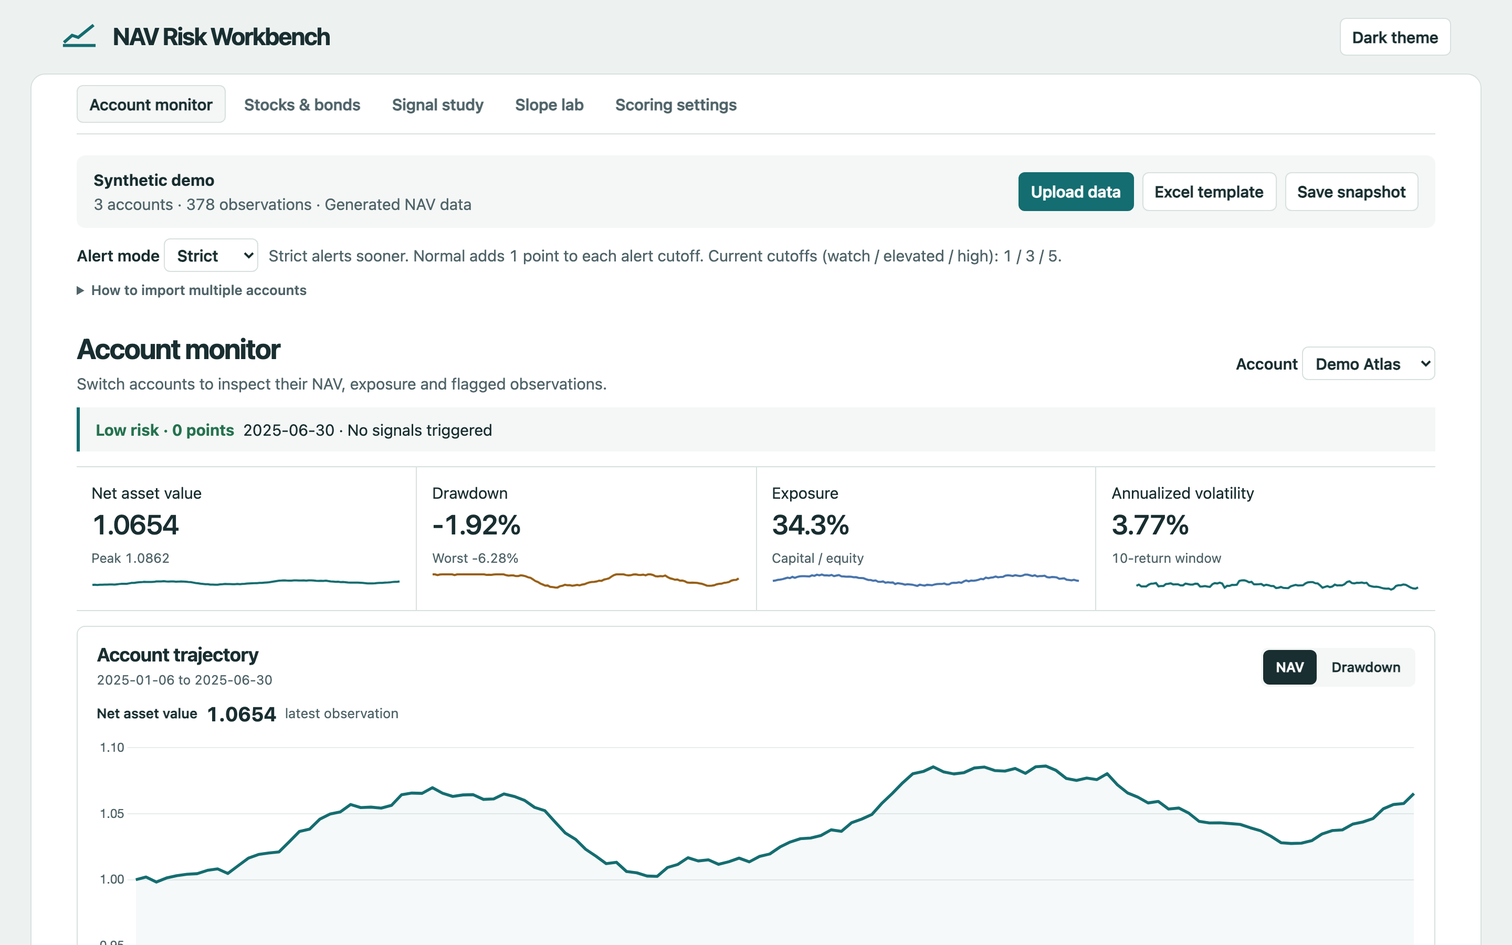
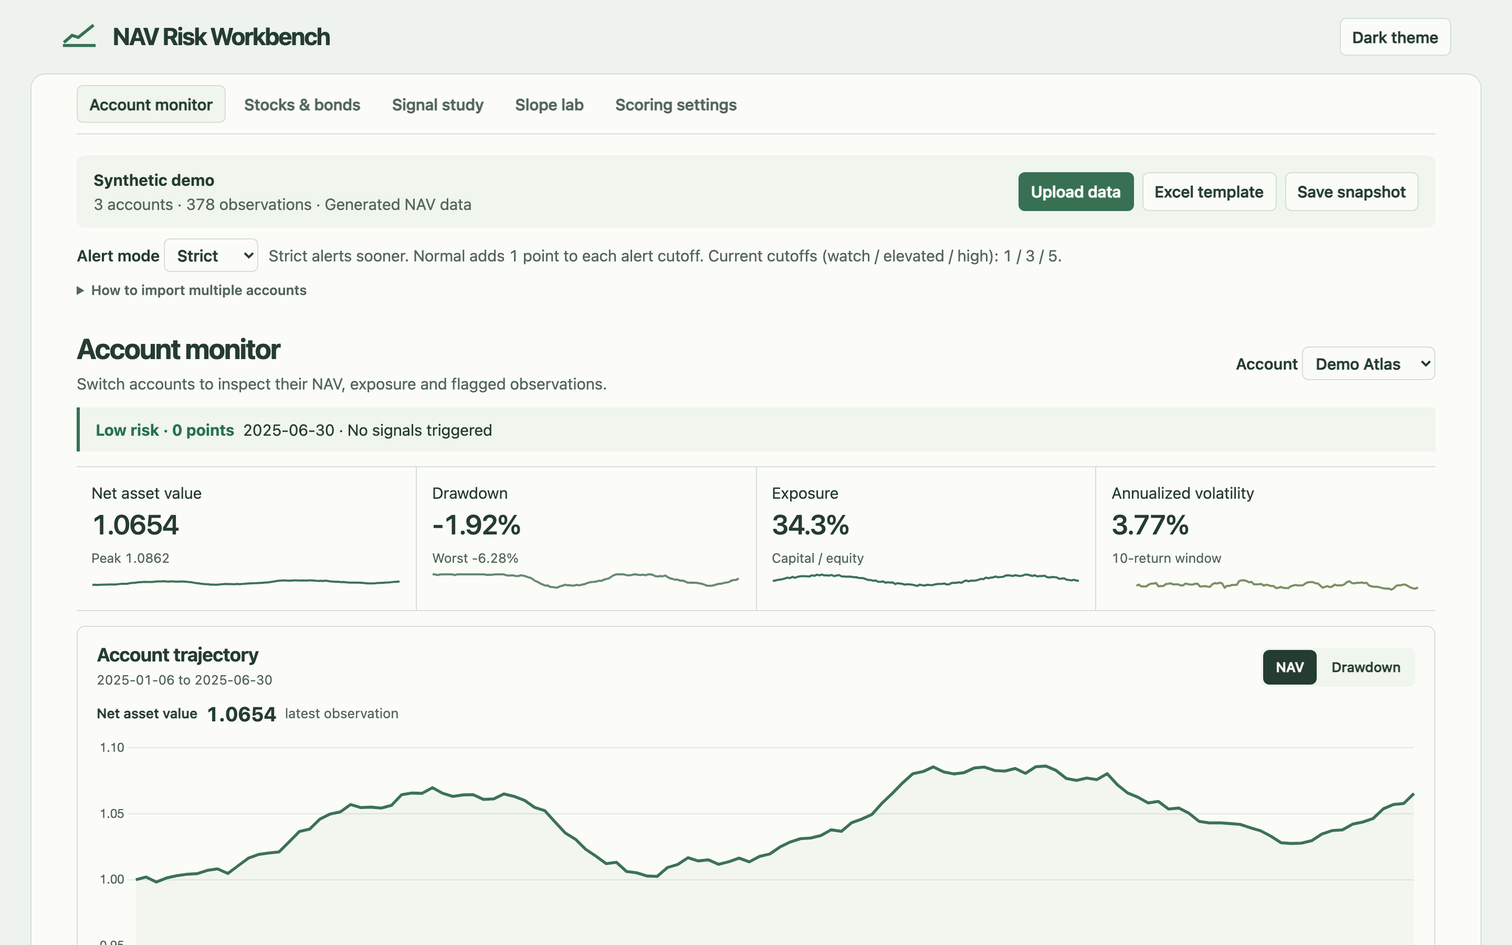
Soften the light theme and layer chart lines in translucent greens

diff --git a/index.html b/index.html
@@ -1,8 +1,8 @@
 <!doctype html>
 <html lang="en" data-theme="light">
 <head><meta charset="utf-8"><meta name="viewport" content="width=device-width, initial-scale=1"><title>NAV Risk Workbench</title>
-<style>:root{color-scheme:light;--bg:#edf2f1;--paper:#fff;--tint:#f4f7f6;--ink:#192e30;--muted:#506469;--line:#d7e1df;--accent:#146d70;--blue:#4875ac;--amber:#986017;--red:#a3333c;--good:#25724f;--grid:#e7edec;font:15px/1.48 -apple-system,BlinkMacSystemFont,"Segoe UI",sans-serif;font-variant-numeric:tabular-nums}
-[data-theme=dark]{color-scheme:dark;--bg:#142023;--paper:#1e2c2f;--tint:#243639;--ink:#e7f0ef;--muted:#b1c4c5;--line:#405154;--accent:#74cfcd;--blue:#94b7e7;--amber:#f1bc76;--red:#ff9c9e;--good:#83c9a4;--grid:#344346}
+<style>:root{color-scheme:light;--bg:#eef3ed;--paper:#fbfcf8;--tint:#f0f5ed;--ink:#253c30;--muted:#53665a;--line:#d5e0d5;--accent:#377053;--forest:#286347e6;--sage:#456f51cf;--fern:#587139c7;--reference:#536956ba;--axis-forest:#316547;--axis-fern:#4d6234;--curve-fill:#52895e0e;--amber:#986017;--red:#a3333c;--good:#25724f;--grid:#e1e9df;font:15px/1.48 -apple-system,BlinkMacSystemFont,"Segoe UI",sans-serif;font-variant-numeric:tabular-nums}
+[data-theme=dark]{color-scheme:dark;--bg:#142023;--paper:#1e2c2f;--tint:#243639;--ink:#e7f0ef;--muted:#b1c4c5;--line:#405154;--accent:#74cfcd;--forest:#8cd9afe8;--sage:#a1c5accf;--fern:#c0d88bcf;--reference:#b1c1b4b8;--axis-forest:#a1d6b2;--axis-fern:#c0d88b;--curve-fill:#94cfa712;--amber:#f1bc76;--red:#ff9c9e;--good:#83c9a4;--grid:#344346}
 *{box-sizing:border-box}body{margin:0;background:var(--bg);color:var(--ink)}header,main{max-width:1410px;margin:auto}header,.brand,.actions,.bar,.mode,.filters,.title,footer,.legend{display:flex;align-items:center;gap:14px;flex-wrap:wrap}header{padding:17px 3%;justify-content:space-between}.brand svg{width:35px;color:var(--accent)}h1{font-size:23px;letter-spacing:-.045em;margin:0}main{background:var(--paper);border:1px solid var(--line);border-radius:14px;padding:0 clamp(16px,3vw,44px);width:96%;margin-bottom:20px}nav{display:flex;gap:6px;border-bottom:1px solid var(--line);padding:10px 0;flex-wrap:wrap}button,.file,select,input{font:inherit}button,.file,select{border:1px solid var(--line);color:var(--ink);background:var(--paper);border-radius:6px;padding:6px 11px;font-weight:550;cursor:pointer}button:hover,.file:hover{background:var(--tint);border-color:var(--muted)}button:focus-visible,select:focus-visible,input:focus-visible,textarea:focus-visible,.file:focus-within{outline:2px solid var(--accent);outline-offset:2px}.primary{background:var(--accent);border-color:var(--accent);color:var(--paper)}.primary:hover{background:var(--ink);color:var(--paper)}nav button{border-color:transparent;background:transparent;color:var(--muted)}nav button.active,.seg button.active{color:var(--ink);background:var(--tint);border-color:var(--line)}.file{position:relative}.file input{height:1px;width:1px;opacity:0;position:absolute}.bar{justify-content:space-between;background:var(--tint);padding:12px 16px;border-radius:8px}.actions{gap:8px}#workspace{margin:20px 0}.mode{margin-top:10px;gap:10px}.mode span,.muted,p,footer,.hint{color:var(--muted)}p{margin:5px 0 12px;max-width:87ch}label{font-weight:600}select{padding:5px 8px;max-width:100%}output{display:block;color:var(--accent)}output.error{color:var(--red)}.title{justify-content:space-between;margin:22px 0 12px}.title p{margin-bottom:0}h2,h3,h4{margin:0;color:var(--ink);line-height:1.22}h2{font-size:27px;letter-spacing:-.04em}h3{font-size:18px;letter-spacing:-.02em}h4{font-size:15px}section[data-view]{padding-bottom:20px}.panel,details{border:1px solid var(--line);border-radius:8px;padding:16px 18px;margin-top:12px;min-width:0}.panel p:last-child,details p:last-child{margin-bottom:0}.riskline{padding:10px 15px;border-left:3px solid var(--accent);background:var(--tint)}.riskline b{margin-right:8px}.metrics{display:grid;grid-template-columns:repeat(4,minmax(0,1fr));margin:14px 0;border-block:1px solid var(--line)}.metric{padding:13px 14px}.metric+.metric{border-left:1px solid var(--line)}.metric b{font-size:26px;display:block;letter-spacing:-.04em;font-weight:550}.metric small,.hint,small{color:var(--muted)}.spark{position:relative;height:22px;margin-top:5px}.pair{display:grid;grid-template-columns:repeat(2,minmax(0,1fr));gap:14px}.plot{position:relative;height:230px}.pair .plot{height:195px}.top{display:flex;align-items:center;justify-content:space-between;gap:12px;margin-bottom:8px;flex-wrap:wrap}.legend{font-size:13px;color:var(--muted);gap:15px;margin:6px 0}.legend i{display:inline-block;width:14px;height:3px;vertical-align:middle;margin-right:5px}.seg{display:flex}.seg button{font-size:13px}.table{overflow:auto;max-width:100%}table{border-collapse:collapse;width:100%;font-size:14px}th,td{border-bottom:1px solid var(--line);padding:9px 10px;text-align:left;white-space:nowrap}th{color:var(--muted);font-weight:550}td.num,th.num{text-align:right}td.wrap{white-space:normal;min-width:160px}.filters,.settings-controls{display:flex;align-items:center;flex-wrap:wrap;gap:12px;margin-top:10px}summary{cursor:pointer;font-weight:600}details p{margin-top:10px}textarea{background:var(--paper);color:var(--ink);border:1px solid var(--line);border-radius:5px;width:100%;height:170px;padding:10px;font-size:15px;margin:8px 0;resize:vertical}input[type=number]{width:80px;color:var(--ink);background:var(--paper);border:1px solid var(--line);padding:5px;border-radius:4px}.barchart{display:grid;gap:9px}.bucket{display:grid;grid-template-columns:120px 1fr 90px;align-items:center;gap:8px}.bucket i{height:8px;background:var(--accent);display:block}.bucket span:last-child{text-align:right}footer{border-top:1px solid var(--line);padding:16px 0;font-size:13px;justify-content:space-between}.level-High{color:var(--red)}.level-Elevated,.level-Watch{color:var(--amber)}.level-Low{color:var(--good)}[hidden]{display:none!important}a{color:var(--accent)}
 @media(max-width:760px){header{padding:10px 14px}h1{font-size:19px}main{width:100%;border-radius:0;border-inline:0}.pair{grid-template-columns:1fr}.metrics{grid-template-columns:repeat(2,minmax(0,1fr))}.metric:nth-child(3){border-left:0}.bar,.title{align-items:flex-start}.panel{padding:12px}.plot{height:210px}nav{gap:2px}nav button{font-size:13px;padding:6px}.mode{align-items:flex-start;flex-direction:column}.bucket{grid-template-columns:102px 1fr 68px;font-size:13px}.settings-controls label{font-size:14px}.metric b{font-size:22px}}
 .uploadHelp{margin:8px 0;padding:0;border:0;font-size:13px}.uploadHelp summary{color:var(--muted)}
@@ -406,10 +406,10 @@ function plot(id,labels,sets,opts={}){
     scales.y.border={display:false};
   }
   if(opts.dual){
-    scales.y.title={display:true,text:'Exposure (%)',color:ink('blue')};
-    scales.y.ticks.color=ink('blue');
+    scales.y.title={display:true,text:'Exposure (%)',color:ink('axis-forest')};
+    scales.y.ticks.color=ink('axis-forest');
     scales.y1={position:'right',grid:{display:false},border:{display:false},
-      ticks:{color:ink('amber'),maxTicksLimit:5},title:{display:true,text:'Volatility (%)',color:ink('amber')}};
+      ticks:{color:ink('axis-fern'),maxTicksLimit:5},title:{display:true,text:'Volatility (%)',color:ink('axis-fern')}};
   }
   charts.push(new Chart($(id),{type:'line',data:{labels,datasets:sets},plugins:opts.signalRows?[signalStrip(opts.signalRows)]:[],options:{
     animation:false,responsive:true,maintainAspectRatio:false,interaction:{mode:'index',intersect:false},scales,
@@ -458,19 +458,19 @@ function monitor(){
     '<div class="signal-key"><b>Signal strip</b><span><i></i>Low / Watch</span><span><i class="elevated"></i>Elevated</span><span><i class="high"></i>High</span></div></div><div class="pair">'+
     panel('Momentum slopes','slopes','Change in NAV (%) per observation. Select a legend line to hide or show it.')+panel('Exposure and volatility','risk','Capital in use versus annualized 10-return volatility.')+'</div><div class="panel"><h3>Alert history</h3><p>Latest 40 flagged observations, newest first.</p>'+
     (rows.length?table(['Date','Score','Signals','Review note','Level'],rows,[1]):'<p>No signals in this series.</p>')+'</div>';
-  for(const [id,key,color] of [['sparkNav','nav','accent'],['sparkDD','dd','amber'],['sparkRisk','risk','blue'],['sparkVol','vol','accent']]){
+  for(const [id,key,color] of [['sparkNav','nav','forest'],['sparkDD','dd','sage'],['sparkRisk','risk','forest'],['sparkVol','vol','fern']]){
     plot(id,labels,[line(key,d.map(r=>r[key]),color)],{spark:true});
   }
-  plot('navChart',labels,[line(nav?'NAV':'Drawdown (%)',d.map(r=>nav?r.nav:r.dd*100),nav?'accent':'amber',{
+  plot('navChart',labels,[line(nav?'NAV':'Drawdown (%)',d.map(r=>nav?r.nav:r.dd*100),nav?'forest':'sage',{
     borderWidth:2.8,borderJoinStyle:'round',pointRadius:d.length===1?3:0,
-    fill:'start',backgroundColor:ink(nav?'accent':'amber')+'0b'
+    fill:'start',backgroundColor:ink('curve-fill')
   })],{monitor:true,signalRows:d,afterBody:items=>{
     const r=d[items[0].dataIndex];
     return r.signals?r.level+' · '+r.score+' points\n'+r.signals.replace(/\|/g,' · '):'';
   }});
   plot('slopes',labels,slopeSets(d,SCORE_CONFIG.slope.observe),{monitor:true});
-  plot('risk',labels,[line('Exposure',d.map(r=>r.risk),'blue',{borderWidth:2.5}),
-    line('Volatility',d.map(r=>r.vol==null?null:r.vol*100),'amber',{yAxisID:'y1',borderDash:[7,4]})],{dual:true,monitor:true});
+  plot('risk',labels,[line('Exposure',d.map(r=>r.risk),'forest',{borderWidth:2.5}),
+    line('Volatility',d.map(r=>r.vol==null?null:r.vol*100),'fern',{yAxisID:'y1',borderDash:[7,4]})],{dual:true,monitor:true});
   for(const b of document.querySelectorAll('[data-nav]')){
     b.classList.toggle('active',b.dataset.nav===navMetric);
     b.setAttribute('aria-pressed',String(b.dataset.nav===navMetric));
@@ -479,10 +479,10 @@ function monitor(){
 }
 function slopeSets(rows,gap){
   return [
-    line('3 obs',rows.map(r=>r.s3),'accent',{borderWidth:2.6}),
-    line('5 obs',rows.map(r=>r.s5),'amber',{borderDash:[6,4]}),
-    line('10 obs',rows.map(r=>r.s10),'blue',{borderWidth:1.8,borderDash:[10,3,2,3]}),
-    line('Watch threshold',rows.map(r=>r.s10==null?null:r.s10-gap),'muted',{borderWidth:1.4,borderDash:[2,4]})
+    line('3 obs',rows.map(r=>r.s3),'forest',{borderWidth:2.6}),
+    line('5 obs',rows.map(r=>r.s5),'fern',{borderDash:[6,4]}),
+    line('10 obs',rows.map(r=>r.s10),'sage',{borderWidth:1.8,borderDash:[10,3,2,3]}),
+    line('Watch threshold',rows.map(r=>r.s10==null?null:r.s10-gap),'reference',{borderWidth:1.4,borderDash:[2,4]})
   ];
 }
 function renderSignals(){
@@ -505,9 +505,9 @@ function renderMarket(){
   const w=windows[0], rolling=cache.rolling[w].slice(lo,hi).filter(n=>n!=null);
   const corr=sbPearson(rows.map(r=>r[1]),rows.map(r=>r[2]));
   $('market').innerHTML='<div class="metrics">'+metric('Trading dates',rows.length.toLocaleString('en-US'),labels[0]+' to '+labels.at(-1))+metric('Period correlation',fmt(corr),'Pearson · daily returns')+metric('Latest correlation',fmt(rolling.at(-1)),w+'-session window')+metric('Positive windows',percent(rolling.filter(v=>v>0).length/rolling.length),w+' sessions')+'</div><p>Full-history daily return correlation: '+fmt(cache.fullCorr)+'. Compare periods and windows to see how sensitive the estimate is to sample choice.</p>'+panel('Rolling return correlation','cor','Correlation ranges from −1 to +1.')+'<div class="pair">'+panel('Cumulative returns','growth','Each ETF is rebased to zero at the first selected close. Values in %.')+panel('Rolling daily volatility','volatility','30-session sample standard deviation, in %.')+'</div>';
-  plot('cor',labels,[...windows.map(n=>line(n+' sessions',cache.rolling[n].slice(lo,hi),({30:'accent',90:'blue',252:'amber'})[n])),line('Zero',labels.map(()=>0),'muted',{borderDash:[4,4],borderWidth:1})],{y:{min:-1,max:1}});
-  plot('growth',labels,[line('SPY',sbRebasedReturns(rows,1),'accent'),line('IEF',sbRebasedReturns(rows,2),'blue')]);
-  plot('volatility',labels,[line('SPY',cache.vol.stock.slice(lo,hi),'accent'),line('IEF',cache.vol.bond.slice(lo,hi),'blue')]);
+  plot('cor',labels,[...windows.map(n=>line(n+' sessions',cache.rolling[n].slice(lo,hi),({30:'forest',90:'sage',252:'fern'})[n],{borderDash:n===30?[]:n===90?[7,4]:[2,4]})),line('Zero',labels.map(()=>0),'reference',{borderDash:[4,4],borderWidth:1})],{y:{min:-1,max:1}});
+  plot('growth',labels,[line('SPY',sbRebasedReturns(rows,1),'forest'),line('IEF',sbRebasedReturns(rows,2),'sage',{borderDash:[7,4]})]);
+  plot('volatility',labels,[line('SPY',cache.vol.stock.slice(lo,hi),'forest'),line('IEF',cache.vol.bond.slice(lo,hi),'sage',{borderDash:[7,4]})]);
 }
 function download(name,body,type){
   const url=URL.createObjectURL(new Blob([body],{type})),a=document.createElement('a');

diff --git a/src/style.css b/src/style.css
@@ -1,5 +1,5 @@
-:root{color-scheme:light;--bg:#edf2f1;--paper:#fff;--tint:#f4f7f6;--ink:#192e30;--muted:#506469;--line:#d7e1df;--accent:#146d70;--blue:#4875ac;--amber:#986017;--red:#a3333c;--good:#25724f;--grid:#e7edec;font:15px/1.48 -apple-system,BlinkMacSystemFont,"Segoe UI",sans-serif;font-variant-numeric:tabular-nums}
-[data-theme=dark]{color-scheme:dark;--bg:#142023;--paper:#1e2c2f;--tint:#243639;--ink:#e7f0ef;--muted:#b1c4c5;--line:#405154;--accent:#74cfcd;--blue:#94b7e7;--amber:#f1bc76;--red:#ff9c9e;--good:#83c9a4;--grid:#344346}
+:root{color-scheme:light;--bg:#eef3ed;--paper:#fbfcf8;--tint:#f0f5ed;--ink:#253c30;--muted:#53665a;--line:#d5e0d5;--accent:#377053;--forest:#286347e6;--sage:#456f51cf;--fern:#587139c7;--reference:#536956ba;--axis-forest:#316547;--axis-fern:#4d6234;--curve-fill:#52895e0e;--amber:#986017;--red:#a3333c;--good:#25724f;--grid:#e1e9df;font:15px/1.48 -apple-system,BlinkMacSystemFont,"Segoe UI",sans-serif;font-variant-numeric:tabular-nums}
+[data-theme=dark]{color-scheme:dark;--bg:#142023;--paper:#1e2c2f;--tint:#243639;--ink:#e7f0ef;--muted:#b1c4c5;--line:#405154;--accent:#74cfcd;--forest:#8cd9afe8;--sage:#a1c5accf;--fern:#c0d88bcf;--reference:#b1c1b4b8;--axis-forest:#a1d6b2;--axis-fern:#c0d88b;--curve-fill:#94cfa712;--amber:#f1bc76;--red:#ff9c9e;--good:#83c9a4;--grid:#344346}
 *{box-sizing:border-box}body{margin:0;background:var(--bg);color:var(--ink)}header,main{max-width:1410px;margin:auto}header,.brand,.actions,.bar,.mode,.filters,.title,footer,.legend{display:flex;align-items:center;gap:14px;flex-wrap:wrap}header{padding:17px 3%;justify-content:space-between}.brand svg{width:35px;color:var(--accent)}h1{font-size:23px;letter-spacing:-.045em;margin:0}main{background:var(--paper);border:1px solid var(--line);border-radius:14px;padding:0 clamp(16px,3vw,44px);width:96%;margin-bottom:20px}nav{display:flex;gap:6px;border-bottom:1px solid var(--line);padding:10px 0;flex-wrap:wrap}button,.file,select,input{font:inherit}button,.file,select{border:1px solid var(--line);color:var(--ink);background:var(--paper);border-radius:6px;padding:6px 11px;font-weight:550;cursor:pointer}button:hover,.file:hover{background:var(--tint);border-color:var(--muted)}button:focus-visible,select:focus-visible,input:focus-visible,textarea:focus-visible,.file:focus-within{outline:2px solid var(--accent);outline-offset:2px}.primary{background:var(--accent);border-color:var(--accent);color:var(--paper)}.primary:hover{background:var(--ink);color:var(--paper)}nav button{border-color:transparent;background:transparent;color:var(--muted)}nav button.active,.seg button.active{color:var(--ink);background:var(--tint);border-color:var(--line)}.file{position:relative}.file input{height:1px;width:1px;opacity:0;position:absolute}.bar{justify-content:space-between;background:var(--tint);padding:12px 16px;border-radius:8px}.actions{gap:8px}#workspace{margin:20px 0}.mode{margin-top:10px;gap:10px}.mode span,.muted,p,footer,.hint{color:var(--muted)}p{margin:5px 0 12px;max-width:87ch}label{font-weight:600}select{padding:5px 8px;max-width:100%}output{display:block;color:var(--accent)}output.error{color:var(--red)}.title{justify-content:space-between;margin:22px 0 12px}.title p{margin-bottom:0}h2,h3,h4{margin:0;color:var(--ink);line-height:1.22}h2{font-size:27px;letter-spacing:-.04em}h3{font-size:18px;letter-spacing:-.02em}h4{font-size:15px}section[data-view]{padding-bottom:20px}.panel,details{border:1px solid var(--line);border-radius:8px;padding:16px 18px;margin-top:12px;min-width:0}.panel p:last-child,details p:last-child{margin-bottom:0}.riskline{padding:10px 15px;border-left:3px solid var(--accent);background:var(--tint)}.riskline b{margin-right:8px}.metrics{display:grid;grid-template-columns:repeat(4,minmax(0,1fr));margin:14px 0;border-block:1px solid var(--line)}.metric{padding:13px 14px}.metric+.metric{border-left:1px solid var(--line)}.metric b{font-size:26px;display:block;letter-spacing:-.04em;font-weight:550}.metric small,.hint,small{color:var(--muted)}.spark{position:relative;height:22px;margin-top:5px}.pair{display:grid;grid-template-columns:repeat(2,minmax(0,1fr));gap:14px}.plot{position:relative;height:230px}.pair .plot{height:195px}.top{display:flex;align-items:center;justify-content:space-between;gap:12px;margin-bottom:8px;flex-wrap:wrap}.legend{font-size:13px;color:var(--muted);gap:15px;margin:6px 0}.legend i{display:inline-block;width:14px;height:3px;vertical-align:middle;margin-right:5px}.seg{display:flex}.seg button{font-size:13px}.table{overflow:auto;max-width:100%}table{border-collapse:collapse;width:100%;font-size:14px}th,td{border-bottom:1px solid var(--line);padding:9px 10px;text-align:left;white-space:nowrap}th{color:var(--muted);font-weight:550}td.num,th.num{text-align:right}td.wrap{white-space:normal;min-width:160px}.filters,.settings-controls{display:flex;align-items:center;flex-wrap:wrap;gap:12px;margin-top:10px}summary{cursor:pointer;font-weight:600}details p{margin-top:10px}textarea{background:var(--paper);color:var(--ink);border:1px solid var(--line);border-radius:5px;width:100%;height:170px;padding:10px;font-size:15px;margin:8px 0;resize:vertical}input[type=number]{width:80px;color:var(--ink);background:var(--paper);border:1px solid var(--line);padding:5px;border-radius:4px}.barchart{display:grid;gap:9px}.bucket{display:grid;grid-template-columns:120px 1fr 90px;align-items:center;gap:8px}.bucket i{height:8px;background:var(--accent);display:block}.bucket span:last-child{text-align:right}footer{border-top:1px solid var(--line);padding:16px 0;font-size:13px;justify-content:space-between}.level-High{color:var(--red)}.level-Elevated,.level-Watch{color:var(--amber)}.level-Low{color:var(--good)}[hidden]{display:none!important}a{color:var(--accent)}
 @media(max-width:760px){header{padding:10px 14px}h1{font-size:19px}main{width:100%;border-radius:0;border-inline:0}.pair{grid-template-columns:1fr}.metrics{grid-template-columns:repeat(2,minmax(0,1fr))}.metric:nth-child(3){border-left:0}.bar,.title{align-items:flex-start}.panel{padding:12px}.plot{height:210px}nav{gap:2px}nav button{font-size:13px;padding:6px}.mode{align-items:flex-start;flex-direction:column}.bucket{grid-template-columns:102px 1fr 68px;font-size:13px}.settings-controls label{font-size:14px}.metric b{font-size:22px}}
 .uploadHelp{margin:8px 0;padding:0;border:0;font-size:13px}.uploadHelp summary{color:var(--muted)}

diff --git a/src/app.js b/src/app.js
@@ -88,10 +88,10 @@ function plot(id,labels,sets,opts={}){
     scales.y.border={display:false};
   }
   if(opts.dual){
-    scales.y.title={display:true,text:'Exposure (%)',color:ink('blue')};
-    scales.y.ticks.color=ink('blue');
+    scales.y.title={display:true,text:'Exposure (%)',color:ink('axis-forest')};
+    scales.y.ticks.color=ink('axis-forest');
     scales.y1={position:'right',grid:{display:false},border:{display:false},
-      ticks:{color:ink('amber'),maxTicksLimit:5},title:{display:true,text:'Volatility (%)',color:ink('amber')}};
+      ticks:{color:ink('axis-fern'),maxTicksLimit:5},title:{display:true,text:'Volatility (%)',color:ink('axis-fern')}};
   }
   charts.push(new Chart($(id),{type:'line',data:{labels,datasets:sets},plugins:opts.signalRows?[signalStrip(opts.signalRows)]:[],options:{
     animation:false,responsive:true,maintainAspectRatio:false,interaction:{mode:'index',intersect:false},scales,
@@ -140,19 +140,19 @@ function monitor(){
     '<div class="signal-key"><b>Signal strip</b><span><i></i>Low / Watch</span><span><i class="elevated"></i>Elevated</span><span><i class="high"></i>High</span></div></div><div class="pair">'+
     panel('Momentum slopes','slopes','Change in NAV (%) per observation. Select a legend line to hide or show it.')+panel('Exposure and volatility','risk','Capital in use versus annualized 10-return volatility.')+'</div><div class="panel"><h3>Alert history</h3><p>Latest 40 flagged observations, newest first.</p>'+
     (rows.length?table(['Date','Score','Signals','Review note','Level'],rows,[1]):'<p>No signals in this series.</p>')+'</div>';
-  for(const [id,key,color] of [['sparkNav','nav','accent'],['sparkDD','dd','amber'],['sparkRisk','risk','blue'],['sparkVol','vol','accent']]){
+  for(const [id,key,color] of [['sparkNav','nav','forest'],['sparkDD','dd','sage'],['sparkRisk','risk','forest'],['sparkVol','vol','fern']]){
     plot(id,labels,[line(key,d.map(r=>r[key]),color)],{spark:true});
   }
-  plot('navChart',labels,[line(nav?'NAV':'Drawdown (%)',d.map(r=>nav?r.nav:r.dd*100),nav?'accent':'amber',{
+  plot('navChart',labels,[line(nav?'NAV':'Drawdown (%)',d.map(r=>nav?r.nav:r.dd*100),nav?'forest':'sage',{
     borderWidth:2.8,borderJoinStyle:'round',pointRadius:d.length===1?3:0,
-    fill:'start',backgroundColor:ink(nav?'accent':'amber')+'0b'
+    fill:'start',backgroundColor:ink('curve-fill')
   })],{monitor:true,signalRows:d,afterBody:items=>{
     const r=d[items[0].dataIndex];
     return r.signals?r.level+' · '+r.score+' points\n'+r.signals.replace(/\|/g,' · '):'';
   }});
   plot('slopes',labels,slopeSets(d,SCORE_CONFIG.slope.observe),{monitor:true});
-  plot('risk',labels,[line('Exposure',d.map(r=>r.risk),'blue',{borderWidth:2.5}),
-    line('Volatility',d.map(r=>r.vol==null?null:r.vol*100),'amber',{yAxisID:'y1',borderDash:[7,4]})],{dual:true,monitor:true});
+  plot('risk',labels,[line('Exposure',d.map(r=>r.risk),'forest',{borderWidth:2.5}),
+    line('Volatility',d.map(r=>r.vol==null?null:r.vol*100),'fern',{yAxisID:'y1',borderDash:[7,4]})],{dual:true,monitor:true});
   for(const b of document.querySelectorAll('[data-nav]')){
     b.classList.toggle('active',b.dataset.nav===navMetric);
     b.setAttribute('aria-pressed',String(b.dataset.nav===navMetric));
@@ -161,10 +161,10 @@ function monitor(){
 }
 function slopeSets(rows,gap){
   return [
-    line('3 obs',rows.map(r=>r.s3),'accent',{borderWidth:2.6}),
-    line('5 obs',rows.map(r=>r.s5),'amber',{borderDash:[6,4]}),
-    line('10 obs',rows.map(r=>r.s10),'blue',{borderWidth:1.8,borderDash:[10,3,2,3]}),
-    line('Watch threshold',rows.map(r=>r.s10==null?null:r.s10-gap),'muted',{borderWidth:1.4,borderDash:[2,4]})
+    line('3 obs',rows.map(r=>r.s3),'forest',{borderWidth:2.6}),
+    line('5 obs',rows.map(r=>r.s5),'fern',{borderDash:[6,4]}),
+    line('10 obs',rows.map(r=>r.s10),'sage',{borderWidth:1.8,borderDash:[10,3,2,3]}),
+    line('Watch threshold',rows.map(r=>r.s10==null?null:r.s10-gap),'reference',{borderWidth:1.4,borderDash:[2,4]})
   ];
 }
 function renderSignals(){
@@ -187,9 +187,9 @@ function renderMarket(){
   const w=windows[0], rolling=cache.rolling[w].slice(lo,hi).filter(n=>n!=null);
   const corr=sbPearson(rows.map(r=>r[1]),rows.map(r=>r[2]));
   $('market').innerHTML='<div class="metrics">'+metric('Trading dates',rows.length.toLocaleString('en-US'),labels[0]+' to '+labels.at(-1))+metric('Period correlation',fmt(corr),'Pearson · daily returns')+metric('Latest correlation',fmt(rolling.at(-1)),w+'-session window')+metric('Positive windows',percent(rolling.filter(v=>v>0).length/rolling.length),w+' sessions')+'</div><p>Full-history daily return correlation: '+fmt(cache.fullCorr)+'. Compare periods and windows to see how sensitive the estimate is to sample choice.</p>'+panel('Rolling return correlation','cor','Correlation ranges from −1 to +1.')+'<div class="pair">'+panel('Cumulative returns','growth','Each ETF is rebased to zero at the first selected close. Values in %.')+panel('Rolling daily volatility','volatility','30-session sample standard deviation, in %.')+'</div>';
-  plot('cor',labels,[...windows.map(n=>line(n+' sessions',cache.rolling[n].slice(lo,hi),({30:'accent',90:'blue',252:'amber'})[n])),line('Zero',labels.map(()=>0),'muted',{borderDash:[4,4],borderWidth:1})],{y:{min:-1,max:1}});
-  plot('growth',labels,[line('SPY',sbRebasedReturns(rows,1),'accent'),line('IEF',sbRebasedReturns(rows,2),'blue')]);
-  plot('volatility',labels,[line('SPY',cache.vol.stock.slice(lo,hi),'accent'),line('IEF',cache.vol.bond.slice(lo,hi),'blue')]);
+  plot('cor',labels,[...windows.map(n=>line(n+' sessions',cache.rolling[n].slice(lo,hi),({30:'forest',90:'sage',252:'fern'})[n],{borderDash:n===30?[]:n===90?[7,4]:[2,4]})),line('Zero',labels.map(()=>0),'reference',{borderDash:[4,4],borderWidth:1})],{y:{min:-1,max:1}});
+  plot('growth',labels,[line('SPY',sbRebasedReturns(rows,1),'forest'),line('IEF',sbRebasedReturns(rows,2),'sage',{borderDash:[7,4]})]);
+  plot('volatility',labels,[line('SPY',cache.vol.stock.slice(lo,hi),'forest'),line('IEF',cache.vol.bond.slice(lo,hi),'sage',{borderDash:[7,4]})]);
 }
 function download(name,body,type){
   const url=URL.createObjectURL(new Blob([body],{type})),a=document.createElement('a');
